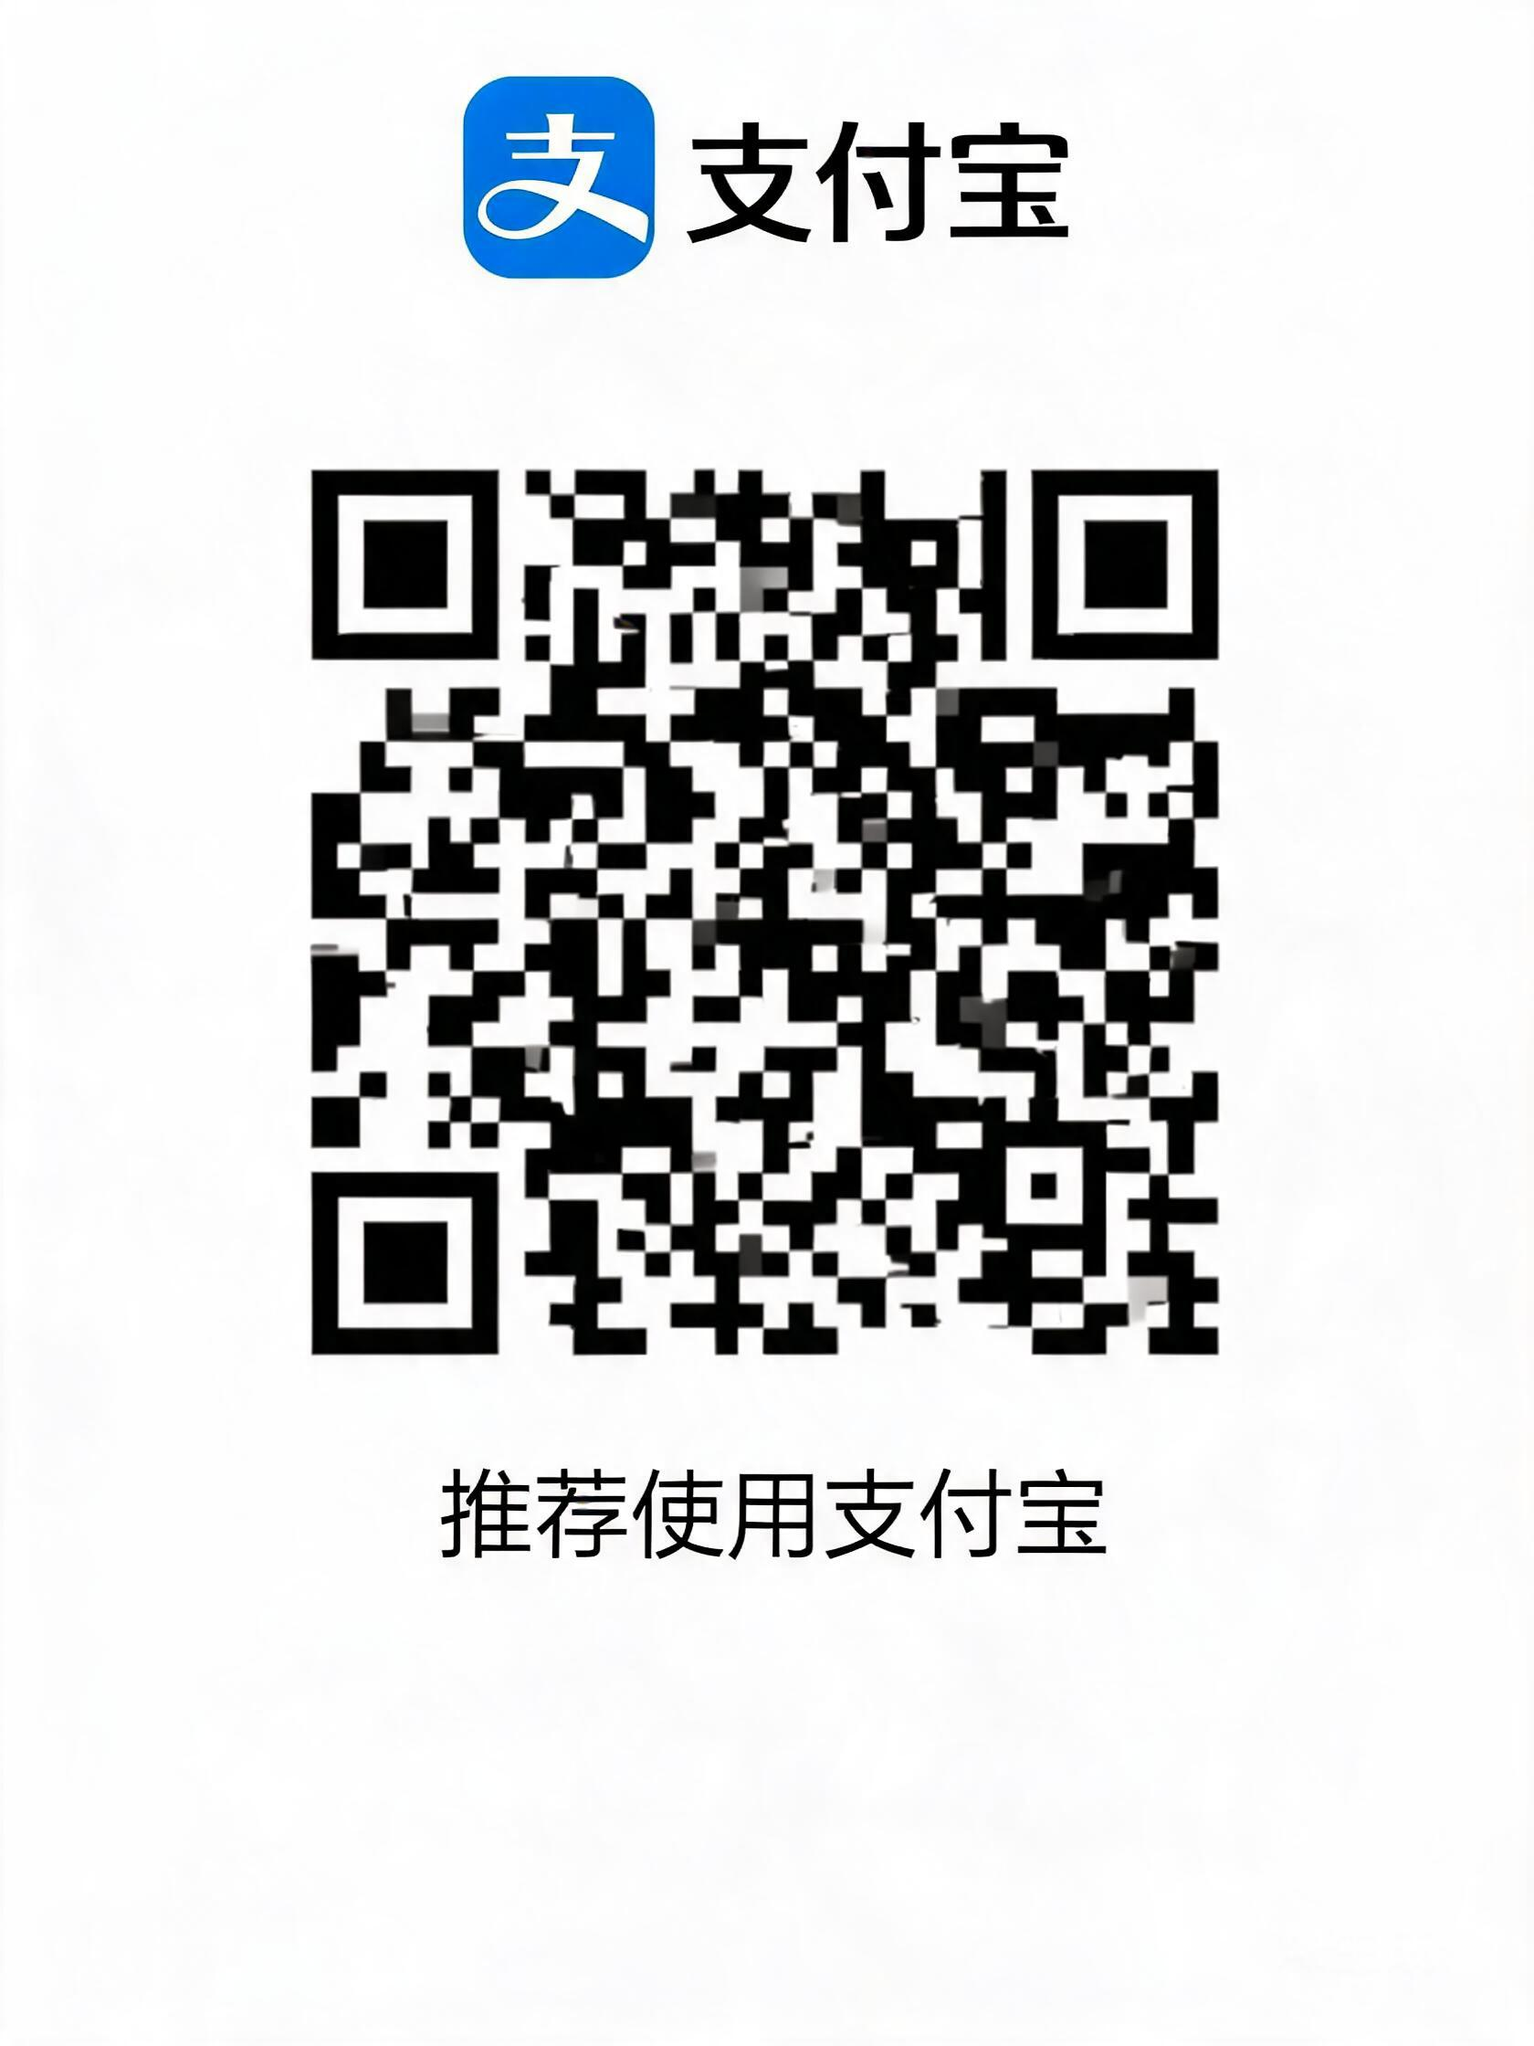
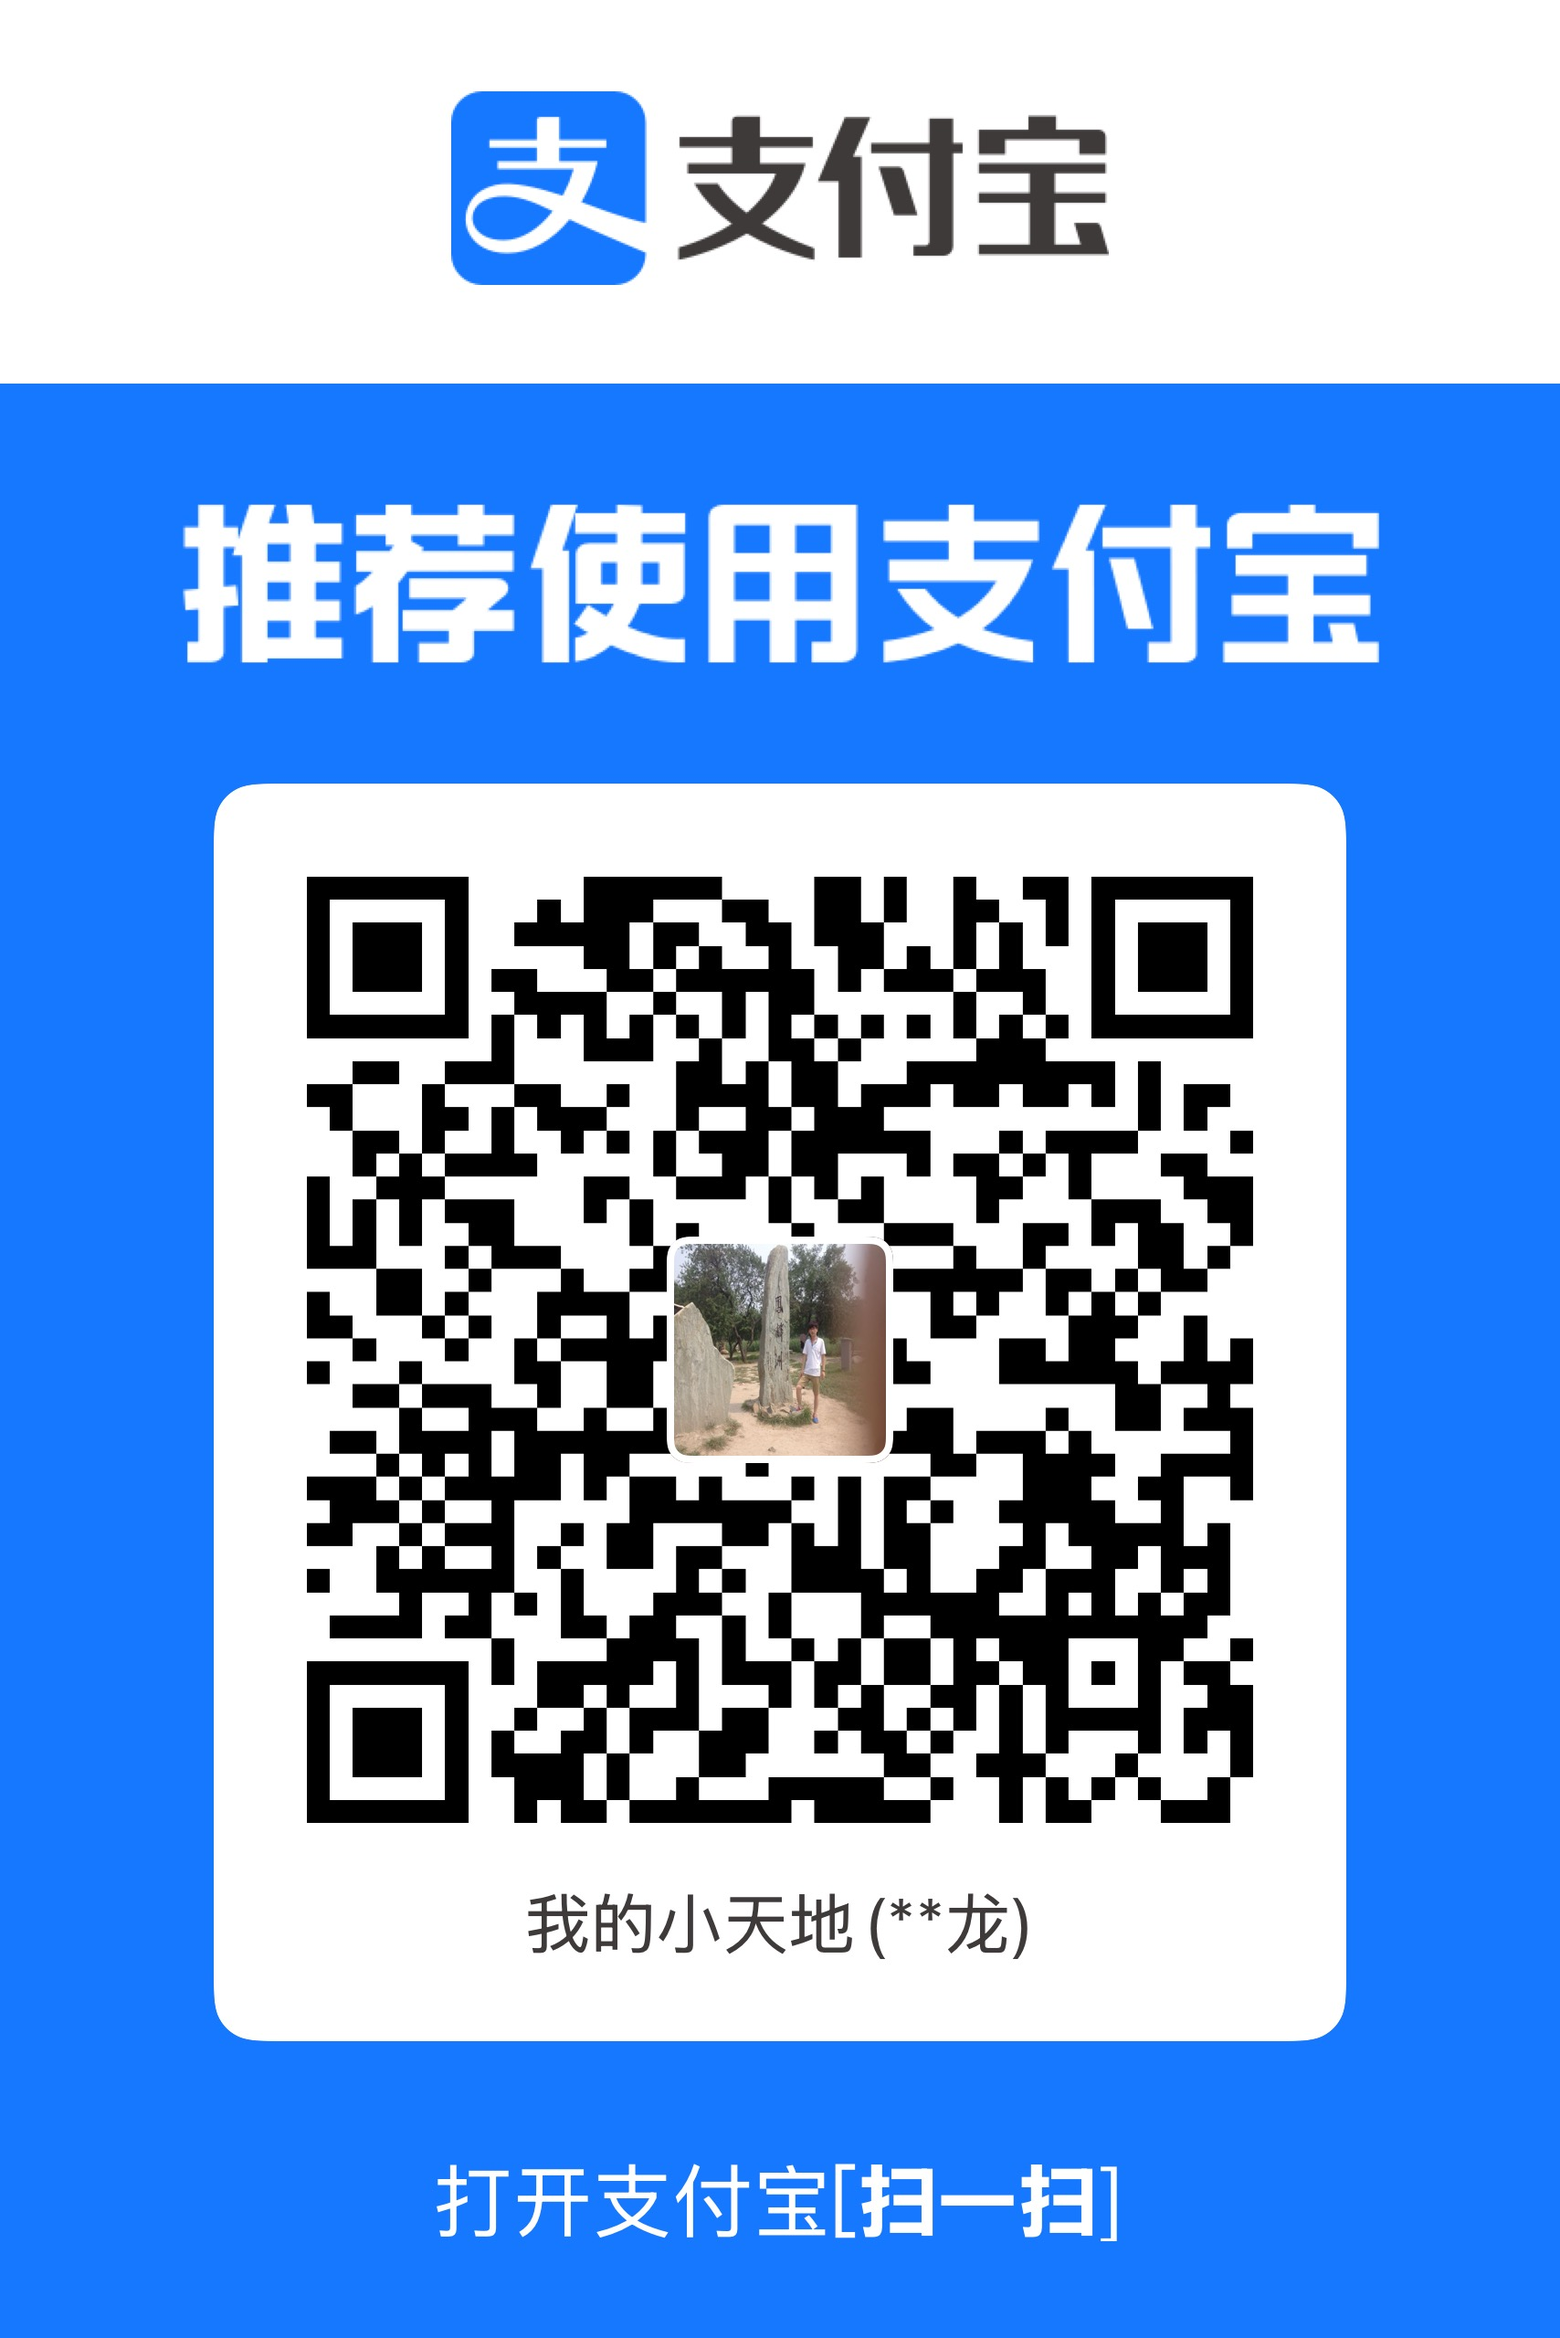
feat: 添加支付审核机制，替换真实收款码图片

diff --git a/static/dashboard.html b/static/dashboard.html
@@ -310,6 +310,14 @@ resp = requests.post(<span class="s">"</span><span id="apiUrl">/v1/dedup</span><
           </div>
         </div>
 
+        <!-- 管理员审核面板 -->
+        <div class="billing-payment-methods" style="margin-top:24px;">
+          <h3>🔧 管理员审核面板</h3>
+          <p style="color:var(--text-secondary);font-size:13px;margin-bottom:16px;">用户提交支付申请后，需在此审核通过才能发放额度</p>
+          <button onclick="loadPendingOrders()" style="padding:10px 20px;border:1px solid var(--border);border-radius:8px;background:var(--bg-secondary);color:var(--text-primary);font-weight:500;cursor:pointer;margin-bottom:16px;">刷新待审核订单</button>
+          <div id="adminOrdersList" style="min-height:100px;color:var(--text-secondary);">点击"刷新待审核订单"加载列表</div>
+        </div>
+
         <!-- Payment QR Code Modal -->
         <div id="afdianModal" style="display:none;position:fixed;top:0;left:0;width:100%;height:100%;background:rgba(0,0,0,0.6);z-index:9999;justify-content:center;align-items:center;">
           <div style="background:var(--bg-card);border-radius:16px;padding:32px;max-width:500px;width:90%;text-align:center;">
@@ -746,12 +754,12 @@ async function confirmAFDianPayment() {
 
   const btn = document.getElementById('afdianCheckBtn');
   btn.disabled = true;
-  btn.textContent = '确认中...';
+  btn.textContent = '提交中...';
 
   try {
-    const resp = await fetch(`${api.baseURL}/billing/afdian/confirm?plan=${plan}&token=${api.token}`, { method: 'POST' });
+    const resp = await fetch(`${api.baseURL}/billing/afdian/confirm?plan=${plan}&token=${api.token}&payment_method=wechat`, { method: 'POST' });
     if (!resp.ok) {
-      let msg = '确认失败';
+      let msg = '提交失败';
       try {
         const err = await resp.json();
         if (typeof err.detail === 'string') msg = err.detail;
@@ -763,20 +771,74 @@ async function confirmAFDianPayment() {
       return;
     }
     const data = await resp.json();
-    if (data.status === 'success') {
-      showToast(`支付成功！${data.credits_added.toLocaleString()} 次额度已到账`, 'success');
+    if (data.status === 'pending') {
+      showToast(`✓ 支付申请已提交！订单号：${data.order_id.substring(0, 8)}... 等待管理员审核`, 'success');
       closeAFDianModal();
-      if (typeof api.getMe === 'function') {
-        const user = await api.getMe();
-        api.user = user;
-        loadOverview(user);
-      }
     }
   } catch (e) {
     showToast('网络错误: ' + e.message, 'error');
     btn.disabled = false;
     btn.textContent = '我已完成支付';
   }
+}
+
+// 管理员审核功能
+async function loadPendingOrders() {
+  const container = document.getElementById('adminOrdersList');
+  if (!container) return;
+  
+  try {
+    const resp = await fetch(`${api.baseURL}/billing/afdian/admin/pending?token=${api.token}`);
+    if (!resp.ok) {
+      container.innerHTML = '<p style="color:var(--text-secondary)">加载失败</p>';
+      return;
+    }
+    const data = await resp.json();
+    if (!data.orders.length) {
+      container.innerHTML = '<p style="color:var(--text-secondary)">暂无待审核订单</p>';
+      return;
+    }
+    
+    container.innerHTML = data.orders.map(order => `
+      <div style="background:var(--bg-secondary);border-radius:8px;padding:16px;margin-bottom:12px;display:flex;justify-content:space-between;align-items:center;">
+        <div>
+          <div style="font-weight:600;margin-bottom:4px;">${getPlanName(order.plan)} · ¥${order.amount}</div>
+          <div style="color:var(--text-secondary);font-size:13px;">
+            用户ID: ${order.user_id.substring(0, 8)}... · 
+            额度: ${order.credits.toLocaleString()} · 
+            方式: ${order.payment_method === 'wechat' ? '微信' : '支付宝'} · 
+            ${new Date(order.created_at).toLocaleString('zh-CN')}
+          </div>
+          <div style="color:var(--accent);font-size:12px;margin-top:4px;">订单号: ${order.order_id.substring(0, 12)}...</div>
+        </div>
+        <button onclick="approveOrder('${order.order_id}')" style="padding:8px 16px;border:none;border-radius:6px;background:linear-gradient(135deg,#10B981,#059669);color:white;font-weight:600;cursor:pointer;">审核通过</button>
+      </div>
+    `).join('');
+  } catch (e) {
+    container.innerHTML = '<p style="color:var(--text-secondary)">加载失败</p>';
+  }
+}
+
+async function approveOrder(orderId) {
+  if (!confirm('确认审核通过此订单？审核通过后额度将立即到账。')) return;
+  
+  try {
+    const resp = await fetch(`${api.baseURL}/billing/afdian/admin/approve?order_id=${orderId}&token=${api.token}`, { method: 'POST' });
+    if (!resp.ok) {
+      const err = await resp.json();
+      showToast(err.detail || '审核失败', 'error');
+      return;
+    }
+    const data = await resp.json();
+    showToast(`✓ 审核通过！${data.credits_added.toLocaleString()} 次额度已到账`, 'success');
+    loadPendingOrders();
+  } catch (e) {
+    showToast('审核失败: ' + e.message, 'error');
+  }
+}
+
+function getPlanName(plan) {
+  return { starter: 'Starter', pro: 'Pro', business: 'Business' }[plan] || plan;
 }
 
 async function buyCredits(plan) {

diff --git a/app/routes/afdian.py b/app/routes/afdian.py
@@ -1,6 +1,7 @@
-import httpx
 import logging
-from fastapi import APIRouter, Request, HTTPException, Query
+import uuid
+from datetime import datetime
+from fastapi import APIRouter, HTTPException, Query
 from ..config import settings
 from ..db.database import get_db
 from ..billing.credits import add_credits, update_plan
@@ -18,14 +19,11 @@ AFDIAN_PLANS = {
 
 @router.get("/afdian/checkout")
 async def afdian_checkout(plan: str = Query(...), token: str = Query(...)):
-    """返回爱发电支付链接（用户通过爱发电主页支付，Webhook回调发放额度）。"""
+    """获取支付信息。"""
     logger.info(f"AFDian checkout: plan={plan}")
 
     if plan not in AFDIAN_PLANS:
         raise HTTPException(400, f"无效套餐: {plan}")
-
-    if not settings.afdian_user_id:
-        raise HTTPException(500, "爱发电用户 ID 未配置 (AFDIAN_USER_ID 未设置)")
 
     db = get_db()
     if db is None:
@@ -38,27 +36,73 @@ async def afdian_checkout(plan: str = Query(...), token: str = Query(...)):
     user = user_resp.data[0]
     plan_info = AFDIAN_PLANS[plan]
 
-    afdian_url = f"https://afdian.com/u/{settings.afdian_user_id}"
-
     return {
-        "afdian_url": afdian_url,
         "plan": plan,
         "price": plan_info["price"],
         "credits": plan_info["credits"],
         "title": plan_info["title"],
         "user_id": user["id"],
-        "message": f"请在爱发电主页支付 ¥{plan_info['price']}，支付成功后额度将自动到账。",
+        "message": f"请扫码支付 ¥{plan_info['price']}，支付后提交申请，管理员审核通过后额度到账。",
     }
 
 
 @router.post("/afdian/confirm")
-async def afdian_confirm(plan: str = Query(...), token: str = Query(...)):
-    """用户确认已通过爱发电支付，手动触发额度发放（供Webhook延迟时使用）。"""
+async def afdian_confirm(
+    plan: str = Query(...), 
+    token: str = Query(...),
+    payment_method: str = Query("wechat"),
+):
+    """用户提交支付申请，创建待审核订单。"""
     logger.info(f"AFDian confirm: plan={plan}")
 
     if plan not in AFDIAN_PLANS:
         raise HTTPException(400, f"无效套餐: {plan}")
 
+    if payment_method not in ["wechat", "alipay"]:
+        raise HTTPException(400, "无效的支付方式")
+
+    db = get_db()
+    if db is None:
+        raise HTTPException(500, "数据库不可用")
+
+    user_resp = db.table("users").select("id", "email").eq("auth_token", token).execute()
+    if not user_resp.data:
+        raise HTTPException(401, "登录状态已过期")
+
+    user = user_resp.data[0]
+    plan_info = AFDIAN_PLANS[plan]
+
+    order_id = str(uuid.uuid4())
+    now = datetime.now().isoformat()
+
+    try:
+        db.table("payments").insert({
+            "id": order_id,
+            "user_id": user["id"],
+            "amount": plan_info["price"],
+            "credits_purchased": plan_info["credits"],
+            "plan": plan,
+            "status": "pending",
+            "afdian_order_id": payment_method,
+            "created_at": now,
+        }).execute()
+
+        logger.info(f"AFDian order created: {order_id}, user={user['id']}")
+        return {
+            "status": "pending",
+            "order_id": order_id,
+            "message": "支付申请已提交，等待管理员审核。审核通过后额度将自动到账。",
+            "plan": plan,
+            "credits": plan_info["credits"],
+        }
+    except Exception as e:
+        logger.error(f"Failed to create order: {e}")
+        raise HTTPException(500, f"创建订单失败: {str(e)}")
+
+
+@router.get("/afdian/order/{order_id}")
+async def get_order_status(order_id: str, token: str = Query(...)):
+    """查询订单状态。"""
     db = get_db()
     if db is None:
         raise HTTPException(500, "数据库不可用")
@@ -67,16 +111,94 @@ async def afdian_confirm(plan: str = Query(...), token: str = Query(...)):
     if not user_resp.data:
         raise HTTPException(401, "登录状态已过期")
 
-    user = user_resp.data[0]
-    plan_info = AFDIAN_PLANS[plan]
+    order_resp = db.table("payments").select("*").eq("id", order_id).execute()
+    if not order_resp.data:
+        raise HTTPException(404, "订单不存在")
 
-    credits = plan_info["credits"]
-    await add_credits(user["id"], credits)
-    await update_plan(user["id"], plan)
+    order = order_resp.data[0]
+    if str(order["user_id"]) != str(user_resp.data[0]["id"]):
+        raise HTTPException(403, "无权查看此订单")
 
-    logger.info(f"AFDian manual confirm: user={user['id']}, plan={plan}, credits={credits}")
     return {
-        "status": "success",
-        "credits_added": credits,
-        "plan": plan,
+        "order_id": order["id"],
+        "status": order["status"],
+        "amount": order["amount"],
+        "credits": order["credits_purchased"],
+        "plan": order["plan"],
+        "created_at": order["created_at"],
     }
+
+
+@router.post("/afdian/admin/approve")
+async def admin_approve(
+    order_id: str = Query(...),
+    token: str = Query(...),
+):
+    """管理员审核通过订单（审核通过后额度到账）。"""
+    db = get_db()
+    if db is None:
+        raise HTTPException(500, "数据库不可用")
+
+    user_resp = db.table("users").select("id", "email", "plan").eq("auth_token", token).execute()
+    if not user_resp.data:
+        raise HTTPException(401, "登录状态已过期")
+
+    # 检查管理员权限（临时：所有登录用户都可以审核，后续可改为只有特定用户）
+    user = user_resp.data[0]
+
+    order_resp = db.table("payments").select("*").eq("id", order_id).execute()
+    if not order_resp.data:
+        raise HTTPException(404, "订单不存在")
+
+    order = order_resp.data[0]
+    if order["status"] != "pending":
+        raise HTTPException(400, f"订单状态为 {order['status']}，无法审核")
+
+    # 审核通过，发放额度
+    try:
+        await add_credits(order["user_id"], order["credits_purchased"])
+        await update_plan(order["user_id"], order["plan"])
+
+        db.table("payments").update({
+            "status": "completed",
+            "updated_at": datetime.now().isoformat(),
+        }).eq("id", order_id).execute()
+
+        logger.info(f"Order {order_id} approved by {user['email']}")
+        return {
+            "status": "success",
+            "order_id": order_id,
+            "credits_added": order["credits_purchased"],
+            "message": "订单已审核通过，额度已到账",
+        }
+    except Exception as e:
+        logger.error(f"Failed to approve order: {e}")
+        raise HTTPException(500, f"审核失败: {str(e)}")
+
+
+@router.get("/afdian/admin/pending")
+async def admin_list_pending(token: str = Query(...)):
+    """获取所有待审核订单列表。"""
+    db = get_db()
+    if db is None:
+        raise HTTPException(500, "数据库不可用")
+
+    user_resp = db.table("users").select("id", "email").eq("auth_token", token).execute()
+    if not user_resp.data:
+        raise HTTPException(401, "登录状态已过期")
+
+    orders = db.table("payments").select("*").eq("status", "pending").order("created_at", desc=True).execute()
+    
+    result = []
+    for order in orders.data:
+        result.append({
+            "order_id": order["id"],
+            "user_id": order["user_id"],
+            "amount": order["amount"],
+            "credits": order["credits_purchased"],
+            "plan": order["plan"],
+            "payment_method": order.get("afdian_order_id", ""),
+            "created_at": order["created_at"],
+        })
+
+    return {"orders": result, "total": len(result)}
